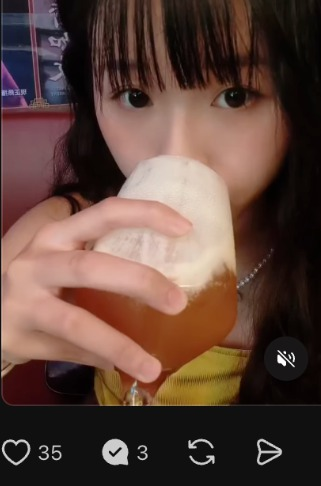
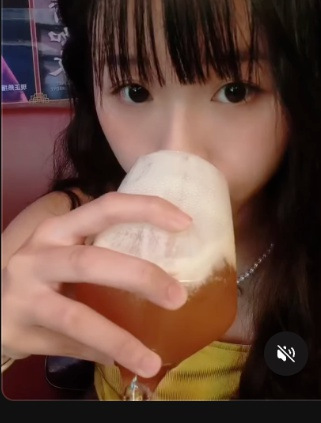
fix: update clean Disney+ coucou image crop and add ?v=2 cache buster

diff --git a/index.html b/index.html
@@ -513,7 +513,7 @@ footer {
   <div class="hero-container">
     <section class="hero">
       <div class="hero-photo-wrap">
-        <img class="hero-photo" src="./assets/bear_black_blazer.jpg" alt="小熊 Bear 穿搭模特照" loading="eager">
+        <img class="hero-photo" src="./assets/bear_black_blazer.jpg?v=2" alt="小熊 Bear 穿搭模特照" loading="eager">
         <span class="hero-photo-badge">152cm / 45kg 代表</span>
       </div>
 
@@ -568,7 +568,7 @@ footer {
   <div class="lookbook-grid">
     <div class="lookbook-card">
       <div class="lookbook-img-wrap">
-        <img src="./assets/bear_black_blazer.jpg" alt="甜酷黑西裝穿搭" loading="lazy">
+        <img src="./assets/bear_black_blazer.jpg?v=2" alt="甜酷黑西裝穿搭" loading="lazy">
         <span class="lookbook-pill">🖤 甜酷微辣風格</span>
       </div>
       <div class="lookbook-info">
@@ -579,7 +579,7 @@ footer {
 
     <div class="lookbook-card">
       <div class="lookbook-img-wrap">
-        <img src="./assets/bear_green_dress.jpg" alt="拯救阿嬤睡衣" loading="lazy">
+        <img src="./assets/bear_green_dress.jpg?v=2" alt="拯救阿嬤睡衣" loading="lazy">
         <span class="lookbook-pill">👗 小個子顯高穿搭</span>
       </div>
       <div class="lookbook-info">
@@ -590,7 +590,7 @@ footer {
 
     <div class="lookbook-card">
       <div class="lookbook-img-wrap">
-        <img src="./assets/bear_milk_foam.jpg" alt="Disney+ 台北大巨蛋快閃店吃播" loading="lazy">
+        <img src="./assets/bear_disney_coucou.jpg?v=2" alt="Disney+ 台北大巨蛋快閃店吃播" loading="lazy">
         <span class="lookbook-pill">🎪 商業活動出席</span>
       </div>
       <div class="lookbook-info">
@@ -601,7 +601,7 @@ footer {
 
     <div class="lookbook-card">
       <div class="lookbook-img-wrap">
-        <img src="./assets/bear_avatar_cute.jpg" alt="零偶包反差萌" loading="lazy">
+        <img src="./assets/bear_avatar_cute.jpg?v=2" alt="零偶包反差萌" loading="lazy">
         <span class="lookbook-pill">✨ 零偶包反差萌</span>
       </div>
       <div class="lookbook-info">
